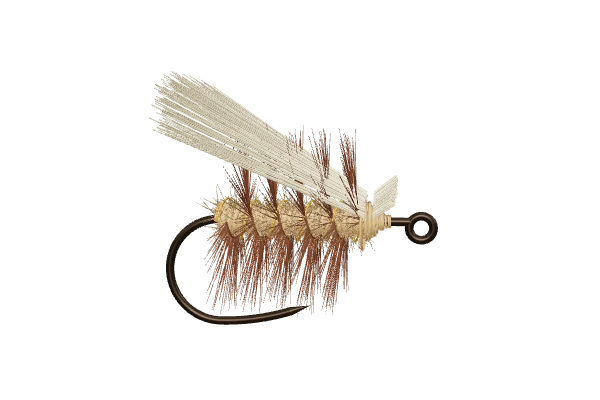
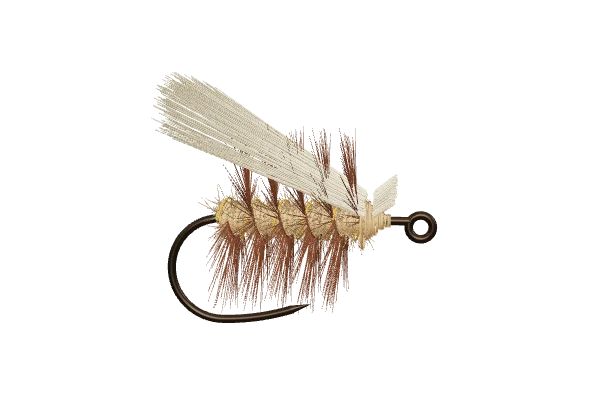
Catalog: Superpuppan, Streaking Caddis, Rackelhanen, Dyret
Swedish and Norwegian caddis patterns, with sources and refcheck. Engine: trimming a
wound hackle (keep=sides for Superpuppan, keep=top for Dyret), hair butts spun and
trimmed into a head, trimming allowed after the whip finish, denser clipped heads.

Changed region(s): [[0.24, 0.18, 0.75, 0.81]]

diff --git a/src/tying/simulate.ts b/src/tying/simulate.ts
@@ -55,6 +55,8 @@ export interface WrapsPiece extends PieceBase {
   band?: boolean;
   /** Post wraps: the post's x, the heights (above the shank axis) the wraps run between, and its radius. */
   post?: { x: number; y0: number; y1: number; radius: number };
+  /** Trimmed hackle: only the fibres at the sides are left, or those on top and at the sides. */
+  keep?: "sides" | "top";
 }
 
 /** A bunch of fibres or hair sticking out from its tie-in point (tag, tail, wing, beard, butts, spun hair). */
@@ -234,7 +236,7 @@ function materialLook(recipe: Recipe, m: Material): MaterialLook {
   const mm = (v: number) => v / gapeMm(recipe.hook.size);
   switch (cat.archetype) {
     case "yarn":
-      return { ...base, strandRadius: 0.05, tieInThickness: 0.025, layerThickness: (c) => 0.1 * Math.min(c, 1.5) };
+      return { ...base, strandRadius: 0.05, count: 160, tieInThickness: 0.025, layerThickness: (c) => 0.1 * Math.min(c, 1.5) };
     case "herl": {
       const r = 0.018 * Math.sqrt(m.strands ?? 3);
       return {
@@ -274,7 +276,7 @@ function materialLook(recipe: Recipe, m: Material): MaterialLook {
         tieInThickness: 0.05, layerThickness: (c) => 0.22 * Math.min(c, 1.2),
       };
     case "hair":
-      return { ...base, strandRadius: 0.08, count: 260, tieInThickness: 0.03, layerThickness: () => 0.03 };
+      return { ...base, strandRadius: 0.08, count: 320, tieInThickness: 0.03, layerThickness: () => 0.03 };
     case "fibres":
       return {
         // Wound fibres lie side by side as a flat band, about one fibre width each.
@@ -345,6 +347,8 @@ export function simulate(recipe: Recipe): Build {
   /** Untrimmed hair butts and spun hair, by material. */
   const butts = new Map<string, BundlePiece>();
   const spun = new Set<string>();
+  /** Wound pieces by material, so a hackle can be trimmed after winding. */
+  const wound = new Map<string, WrapsPiece>();
   /** Upright posts, for parachute hackles. */
   const posts = new Map<string, { x: number; baseY: number; height: number; radius: number }>();
   /** A palmered material whose tip the next forward wind secures. */
@@ -573,6 +577,7 @@ export function simulate(recipe: Recipe): Build {
           }
         }
         pieces.push(piece);
+        wound.set(step.material, piece);
         if (piece.fibreLength && piece.path === "travel") {
           // Squashed flat under a cover, fluff still adds some height.
           fluffy.push({ x0: piece.x0, x1: piece.x1, height: Math.min(0.1, piece.fibreLength * 0.4) });
@@ -619,7 +624,13 @@ export function simulate(recipe: Recipe): Build {
       case "trim": {
         duration = DURATION.trim;
         const cutAt = time + duration * 0.5;
-        if (palmeredTips.has(step.material)) {
+        if (step.keep) {
+          // The same hackle, with only its side fibres left.
+          const w = wound.get(step.material)!;
+          w.until = cutAt;
+          pieces.push({ ...w, id: nextId++, keep: step.keep, window: [0.5, 0.5001], until: undefined });
+          ctx.keep = true;
+        } else if (palmeredTips.has(step.material)) {
           ctx.tip = true;
           palmeredTips.delete(step.material);
           const end = freeEnds.get(step.material);
@@ -633,14 +644,22 @@ export function simulate(recipe: Recipe): Build {
           b.until = cutAt;
           // Assumption: a trimmed head is about 0.4 gape from the shank unless the recipe says otherwise.
           pieces.push({
-            ...b, id: nextId++, length: step.leave ?? 0.4, angle: deg(10), count: b.count * 2, cut: true,
+            ...b, id: nextId++, length: step.leave ?? 0.4, angle: deg(10), count: b.count * 4, cut: true,
             trimShape: step.shape ?? "round", window: [0.5, 0.5001], until: undefined,
           });
         } else {
           const b = butts.get(step.material)!;
           butts.delete(step.material);
           b.until = cutAt;
-          if (step.leave) {
+          if (step.shape) {
+            // Butts spun round the shank by the tight turns, then trimmed into a head.
+            ctx.spun = true;
+            const span = Math.max(0.1, frontLimit - b.x);
+            pieces.push({
+              ...b, id: nextId++, direction: "radial", span, spread: Math.PI, length: step.leave ?? 0.4, angle: deg(10),
+              count: Math.round(1800 * span), cut: true, trimShape: step.shape, window: [0.5, 0.5001], until: undefined,
+            });
+          } else if (step.leave) {
             pieces.push({ ...b, id: nextId++, length: step.leave, cut: true, window: [0.5, 0.5001], until: undefined });
           }
         }

diff --git a/src/render/pieces.ts b/src/render/pieces.ts
@@ -134,6 +134,7 @@ function woundFibres(piece: WrapsPiece, rand: () => number): Fibre[] {
     const at = wrapPoint(piece, u);
     const [px, py, pz] = at.point;
     let spin: number, sweep: number, length: number, shade: number;
+
     // Angle round whatever is being wound on, recovered from the point.
     const around = onPost ? Math.atan2(px - piece.post!.x, pz) : Math.atan2(py, pz);
     if (look === "hackle") {
@@ -162,6 +163,10 @@ function woundFibres(piece: WrapsPiece, rand: () => number): Fibre[] {
       // Mottled, but never lighter than the dubbing's own colour.
       shade = guard ? 0.45 : 0.6 + 0.4 * rand();
     }
+    // A hackle trimmed top and bottom keeps only the fibres pointing out to the sides; one
+    // trimmed underneath keeps everything that doesn't point down.
+    if (piece.keep === "sides" && Math.abs(Math.sin(spin)) > 0.45) continue;
+    if (piece.keep === "top" && Math.sin(spin) < -0.35) continue;
     let dir: THREE.Vector3;
     if (onPost) {
       // Parachute: barbs stand out flat round the post, drooping a little.
@@ -351,12 +356,13 @@ function bundleView(piece: BundlePiece, surfaces: Surfaces, space: ShankSpace): 
         if (Math.abs(dir.z) > 0.6) length *= 0.75;
       } else {
         // A round head, shaped like a bullet: fullest at the back, tapering to the eye.
-        length *= 1 - 0.55 * Math.pow(f, 1.5);
+        length *= 1 - 0.75 * Math.pow(f, 1.2);
       }
     }
     list.push({
       u: rand(), base, dir, length,
-      radius: spec.radius, shade: 0.85 + 0.3 * rand(),
+      // Clipped hair shows its thick cut ends.
+      radius: radialHair && piece.cut ? spec.radius * 1.6 : spec.radius, shade: 0.85 + 0.3 * rand(),
     });
   }
   // Hair butts are the pale base of the hair; tips darken towards the end.

diff --git a/src/recipe/validate.ts b/src/recipe/validate.ts
@@ -39,8 +39,9 @@ export function validateSemantics(recipe: Recipe): RecipeError[] {
 
   recipe.steps.forEach((step, i) => {
     const path = ["steps", i];
-    if (finished) {
-      err("nothing can follow the whip finish", path);
+    // Trimming after the whip finish is common (heads, hackles); nothing else is.
+    if (finished && step.op !== "trim") {
+      err("nothing but trimming can follow the whip finish", path);
       return;
     }
     if ("material" in step && !archetypes.has(step.material)) {
@@ -205,6 +206,10 @@ export function validateSemantics(recipe: Recipe): RecipeError[] {
       }
       case "trim": {
         const m = materials.get(step.material);
+        if (step.keep !== undefined) {
+          if (archetype !== "hackle" || m?.state !== "done") err("keep only applies to a hackle that has been wound and tied off", [...path, "keep"]);
+          break;
+        }
         if (m?.state === "secured") {
           m.state = "done";
         } else if (m?.butts) {
@@ -215,8 +220,8 @@ export function validateSemantics(recipe: Recipe): RecipeError[] {
         if (step.leave !== undefined && archetype !== "hair") {
           err("leave only applies to hair butts and spun hair", [...path, "leave"]);
         }
-        if (step.shape !== undefined && !recipe.steps.slice(0, i).some((s) => s.op === "spin" && s.material === step.material)) {
-          err("shape only applies to trimming spun hair", [...path, "shape"]);
+        if (step.shape !== undefined && archetype !== "hair") {
+          err("shape only applies to trimming spun hair or hair butts", [...path, "shape"]);
         }
         break;
       }

diff --git a/src/tying/describe.ts b/src/tying/describe.ts
@@ -86,6 +86,8 @@ export interface StepContext {
   tip?: boolean;
   /** trim: shaping a spun-hair head rather than trimming butts. */
   spun?: boolean;
+  /** trim: cutting a wound hackle away top and bottom. */
+  keep?: boolean;
   /** tie-in with a length: where the tips end, and where the bend ends (x in gapes). */
   tipX?: number;
   bendEnd?: number;
@@ -172,7 +174,11 @@ export function stepText(recipe: Recipe, step: Step, ctx: StepContext = {}): str
       text = `Tie off the ${mat(step.material)} with a few thread turns and trim the excess.`;
       break;
     case "trim":
-      text = ctx.spun
+      text = ctx.keep
+        ? step.keep === "top"
+          ? `Cut away the fibres of the ${mat(step.material)} underneath, so the fly sits low in the film.`
+          : `Cut away the fibres of the ${mat(step.material)} on top and underneath, leaving two flat rows sticking out at the sides.`
+        : ctx.spun
         ? `Trim the spun ${mat(step.material)} to shape, leaving a head about ${gapeText(step.leave ?? 0.4)} thick on each side.`
         : ctx.tip
         ? `Trim the tip of the ${mat(step.material)} close to the body.`

diff --git a/src/recipe/schema.ts b/src/recipe/schema.ts
@@ -37,7 +37,7 @@ export const NAMED_COLORS = {
   partridge: "#8a7558",
   snipe: "#6f6a64",
   lead: "#6b6e72",
-  deer: "#8c6f52",
+  deer: "#6e5a48",
   squirrel: "#7e6e5e",
   moose: "#2b2622",
   tippet: "#e08a2a",
@@ -221,8 +221,16 @@ const Step = z.discriminatedUnion("op", [
     material: MaterialRef,
     /** Length left standing, in gapes (hair butts). Default: flush. */
     leave: z.number().min(0).max(2).optional(),
-    /** Spun hair: a round head (Muddler) or a wedge, flat underneath and rising towards the rear (G&H Sedge). */
+    /**
+     * Spun hair or hair butts: trim into a round head (Muddler) or a wedge, flat underneath
+     * and rising towards the rear (G&H Sedge). Butts trimmed to a shape are spun round the shank.
+     */
     shape: z.enum(["round", "wedge"]).optional(),
+    /**
+     * A wound hackle: "sides" cuts away the fibres on top and underneath (Superpuppan);
+     * "top" cuts away only those underneath, so the fly sits low (Dyret).
+     */
+    keep: z.enum(["sides", "top"]).optional(),
     note: Note,
   }),
   z.strictObject({

diff --git a/src/recipe/load.test.ts b/src/recipe/load.test.ts
@@ -212,7 +212,7 @@ describe("semantic validation", () => {
     ["wind nowhere", VALID_STEPS.replace("to=0.7 turns=8", "to=0.0 turns=8"), /wind it forward or back from there/],
     ["wind past the thread", VALID_STEPS.replace("to=0.7 turns=8", "to=0.9 turns=8"), /the thread is at 0.7/],
     ["tie off straight after winding", VALID_STEPS.replace("tie-off herl", "wrap-thread to=0.8\n tie-off herl"), /must be tied off before anything else/],
-    ["whip finish last", VALID_STEPS + "\n wrap-thread to=0.5", /nothing can follow the whip finish/],
+    ["whip finish last", VALID_STEPS + "\n wrap-thread to=0.5", /nothing but trimming can follow the whip finish/],
     ["whip finish required", VALID_STEPS.replace("whip-finish", ""), /must end with a whip finish/],
     ["dubbing is not tied in", VALID_STEPS.replace("tie-in herl", "tie-in fur"), /dubbing is applied to the thread/],
     ["only dubbing is dubbed", PALMER_STEPS.replace("dub fur", "dub herl"), /only dubbing can be dubbed/],

diff --git a/docs/recipe-schema.md b/docs/recipe-schema.md
@@ -246,5 +246,5 @@ bend"). When proportions are taken from reference photos, say so in a comment.
 - A parachute hackle needs a post tied in upright (`angle` of 60° or more).
 - `pull-over` needs the material tied in and unused, and the thread at `to`.
 - Only hair is spun, only wire weights, only beads are slid on.
-- `whip-finish` is the last step, and every recipe ends with one.
+- `whip-finish` comes last; only `trim` may follow it (trimming heads and hackles), and every recipe has one.
 - Materials have unique ids, and steps refer only to defined materials.
